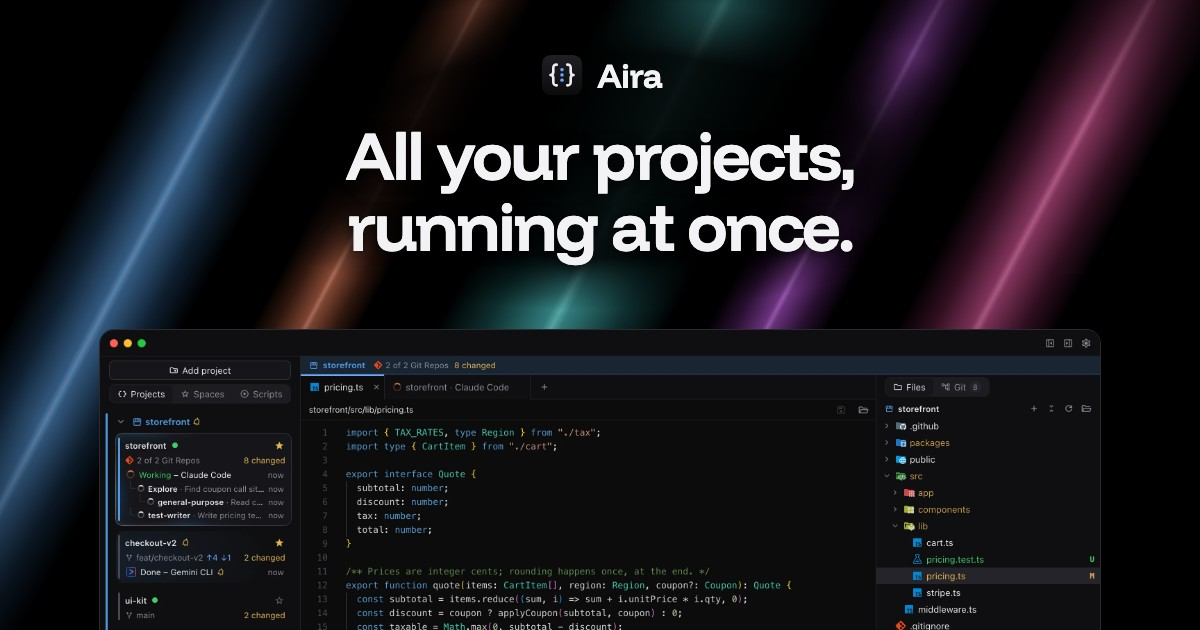
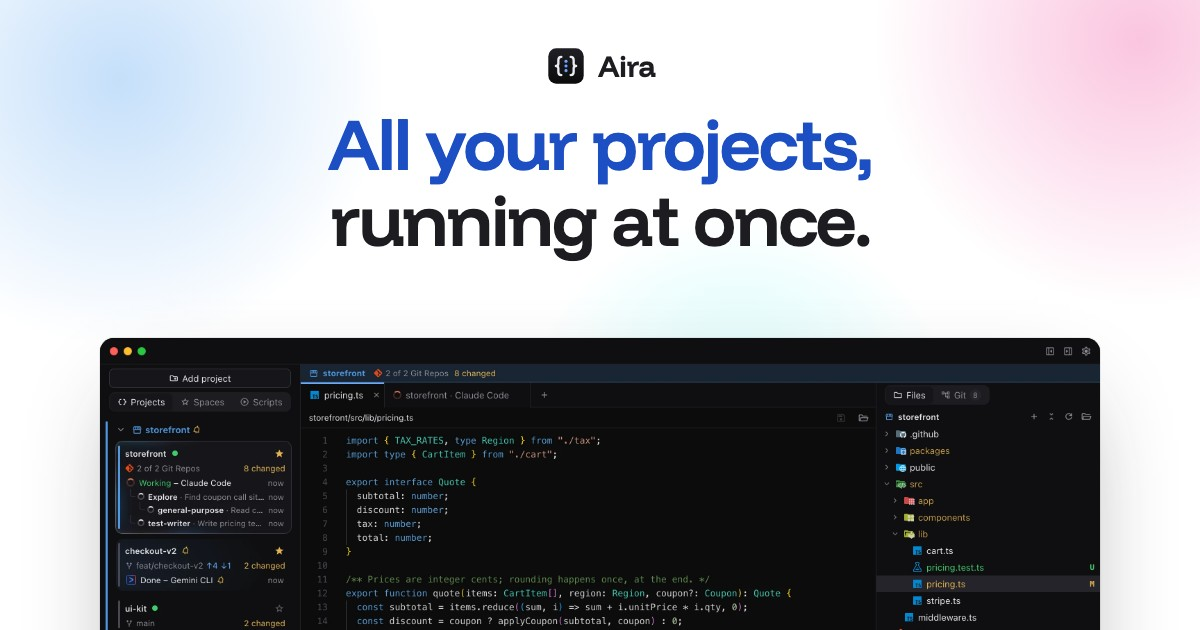
docs(site): social card on white, matching the redesigned hero
og.jpg was still the dark beams composition. The card now mirrors the home
hero: white, the three blobs, the two-tone headline and the hero shot.

diff --git a/plans/011-website-redesign.md b/plans/011-website-redesign.md
@@ -47,4 +47,4 @@ Built as planned, with the hero reworked after the comp was approved:
 
 **Version on the site:** `site.js` asks the GitHub API for the latest release (CORS is open, 60 requests an hour per IP) and fills every `[data-latest]`. The static text behind it is stamped from the highest `v*` tag by `bun run site:version` (`scripts/site-version.mjs`); run it, after `git fetch --tags`, before publishing the site. The artifact preview can't reach the API, so it shows the stamped text.
 
-**Open:** `.impeccable/design.json` still describes the plan-010 site (run `/impeccable document`); `og.jpg` is regenerated from the new hero shot but its headline card still uses the old dark composition; real-device and Safari checks.
+**Open:** `.impeccable/design.json` still describes the plan-010 site (run `/impeccable document`); real-device and Safari checks.
